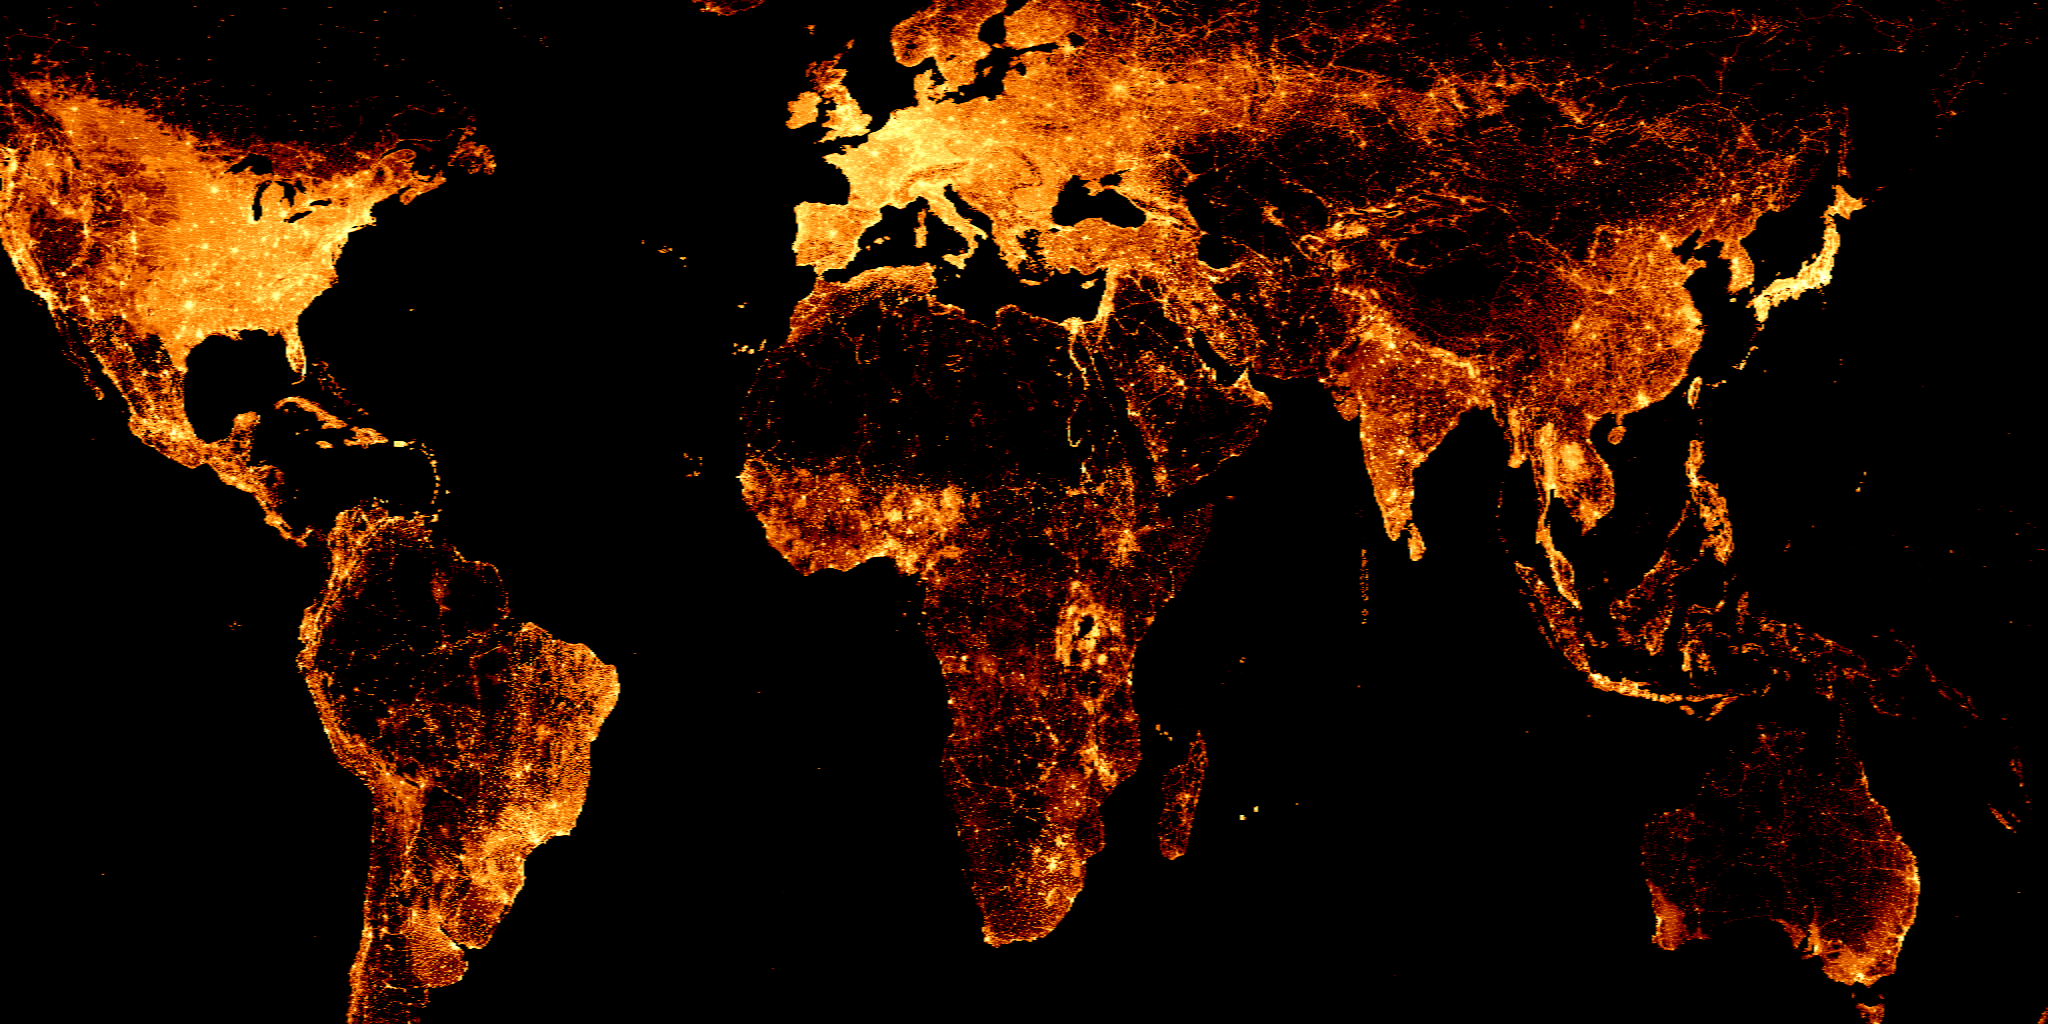
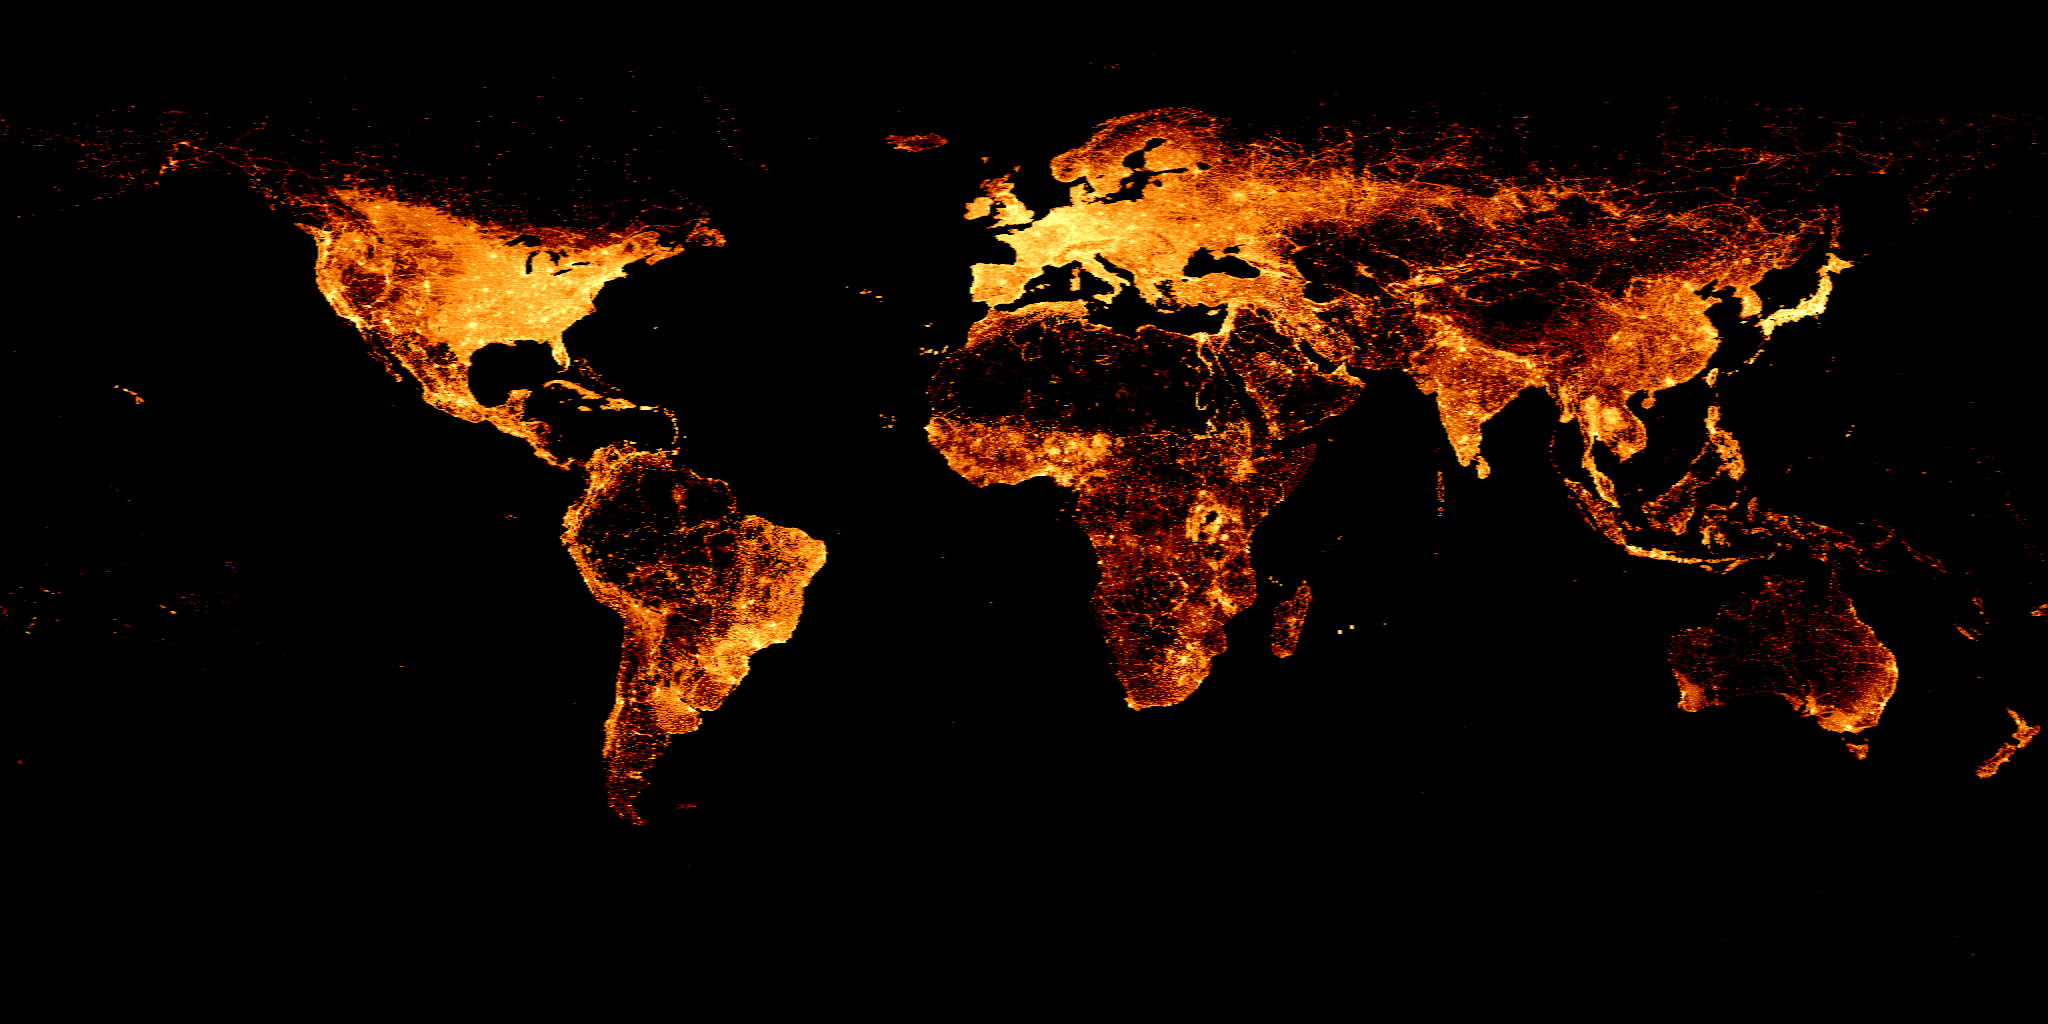
somestuff

diff --git a/index.html b/index.html
@@ -31,13 +31,15 @@ footer a { color: inherit; }
 <div id="loader">Loading&hellip;</div>
 <div id="options">
   <select id="style-selector" onChange="generateMap(this.value)">
-    <option value="satellite" selected>Satellite</option>
+    <option value="satellite">Satellite</option>
     <option value="streets">Streets</option>
-    <option value="dark">Dark</option>
+    <option value="dark" selected>Dark</option>
     <option value="light">Light</option>
   </select>
   <br>
-  <label><input type="checkbox" id="cloud-checkbox" onChange="toggleClouds(this.checked)"> Clouds</label>
+  <label><input type="checkbox" id="buildings-checkbox" onChange="toggleBuildings(this.checked)"> Buildings</label>
+  
+  <label><input type="checkbox" id="roads-checkbox" onChange="toggleRoads(this.checked)"> roads</label>
 </div>
 <footer>
   <a href="https://github.com/cheeaun/3d-earth" target="_blank">Learn more on GitHub</a>
@@ -116,17 +118,32 @@ scene.add(earth);
 
 // Clouds
 var cloudMaterial = new THREE.MeshLambertMaterial({
-  opacity: 0.8,
+  opacity: 1.00,
   transparent: true,
+  // alphaMap: THREE.ImageUtils.loadTexture( 'roads.jpg' )
+  map: THREE.ImageUtils.loadTexture( 'roads.png' )
 });
 var cloud = new THREE.Mesh(geometry, cloudMaterial);
 cloud.visible = false;
-(new THREE.TextureLoader()).load('roads.jpg', function(texture){
-  cloudMaterial.alphaMap = texture;
-});
+
+
+// new THREE.ImageUtils.loadTexture( 'roads.jpg', function(texture){
+
+//   cloudMaterial.map = texture;
+// });
+
+
+//this makes it white
+// (new THREE.TextureLoader()).load('roads.jpg', function(texture){
+
+//   cloudMaterial.alphaMap = texture;
+// });
+
+
+
 earth.add(cloud);
 
-function toggleClouds(checked){
+function toggleRoads(checked){
   cloud.visible = checked;
 };
 
@@ -305,7 +322,7 @@ function generateMap(style){
     }, 350); // Delay for the tiles to render properly
   });
 };
-generateMap('satellite');
+generateMap('dark');
 
 $options.ondblclick = $options.ongestureend = function(){
   document.body.classList.toggle('fullscreen');
